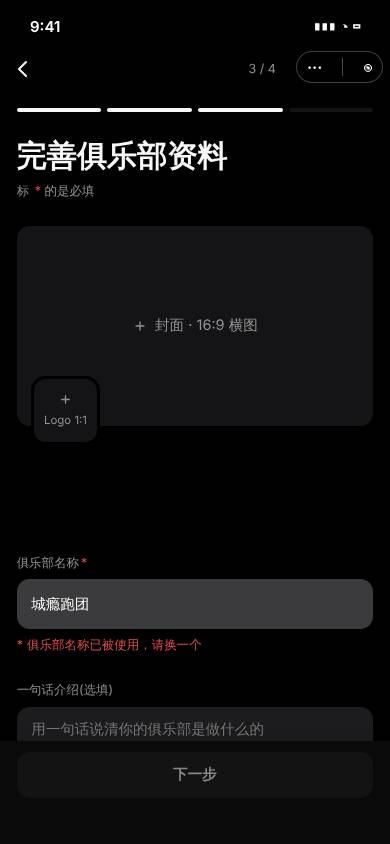
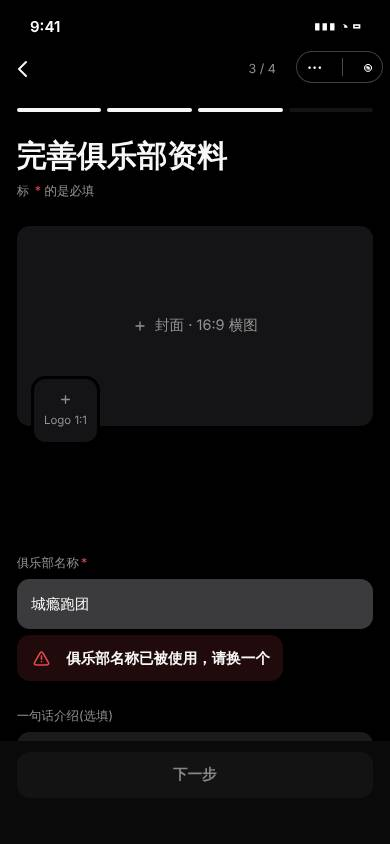
docs: C-14 截图按统一错误组件重拍,结果表同步
Claude-Session: https://claude.ai/code/session_01SUD7bQHTidZoerqLzuiJTf

Changed region(s): [[0.0308, 0.7393, 0.9538, 0.8934]]

diff --git a/docs/delivery/walk-fix-20261102/l3-sell/RESULT.md b/docs/delivery/walk-fix-20261102/l3-sell/RESULT.md
@@ -75,12 +75,12 @@ Nothing from the lost run had been pushed, so every item was redone from the cur
 | ID | Status | What changed | Files | How verified |
 |---|---|---|---|---|
 | P-33 | done (fixed) | Round 2 moved the full-screen sheet below the capsule row, which exposed the root `.slopes` dark background as a black band at the top. In full-screen state the root now carries `slopes--full` and `.fabu.slopes--full { background: var(--cy-color-bg-page); }`, so the status-bar area is the page colour and content still stops below the back button. The map view keeps its dark root. | `pages/publish/fabu/index.wxml`, `.wxss` | `tests/unit/p33-editor-sheet-below-chrome.test.js` (+1, fails on old code). Shots `P-33-*`: 票务设置 scrolled 160 px; before = black band, after = page colour. |
-| C-14 | done (fixed) | New read-only `POST /api/club/name-check` (login required, writes nothing) using the same rule as creation (`ClubServiceImpl.checkNameForCreate` and `requireNameFree` share `isNameHeld`: pending or live, not deleted, trimmed; the caller's own clubs are skipped because creation replays them). The create page checks on leaving the name field (`bindblur`) and again when 下一步 is pressed on step 3; a taken name shows a red * and the reason under the field and keeps 下一步 disabled. Typing clears it; a stale answer is ignored; if the check cannot be reached the page does not block and the final check at creation (and `uk_club_holding_name`) still applies. The existing `aria-label="俱乐部名称，必填"` is unchanged. | `ApiClubController`, `IClubService`, `ClubServiceImpl`, `pages/club/create/index.js/.wxml/.wxss` | `ClubNameUniquenessTest` (+3: taken name gives the create message; pending/rejected/dissolved/own follow the create rule; check and create agree on every case), 12/12 pass. `tests/unit/c14-club-name-check-on-blur.test.js` (5, all fail on old code). Rig: `/api/club/name-check` called on blur (network log). Shots `C-14-*`: club leader 9008 types 「城瘾跑团」 (club 7001's name); fixture: 9008's `ums_member.role` set to `club` in the rig DB only, since the seed leaves both leaders as `player`. |
+| C-14 | done (fixed) | New read-only `POST /api/club/name-check` (login required, writes nothing) using the same rule as creation (`ClubServiceImpl.checkNameForCreate` and `requireNameFree` share `isNameHeld`: pending or live, not deleted, trimmed; the caller's own clubs are skipped because creation replays them). The create page checks on leaving the name field (`bindblur`) and again when 下一步 is pressed on step 3; a taken name shows the reason under the field in the shared `cy-inline-error` (the label keeps its red *) and keeps 下一步 disabled. (`fba075a8`, from another session on this branch, moved the reason from a bare line with its own * into `cy-inline-error` because `scripts/ui-validity-gates.js` U6 refuses bare error text; kept, and the after shot is retaken on it.) Typing clears it; a stale answer is ignored; if the check cannot be reached the page does not block and the final check at creation (and `uk_club_holding_name`) still applies. The existing `aria-label="俱乐部名称，必填"` is unchanged. | `ApiClubController`, `IClubService`, `ClubServiceImpl`, `pages/club/create/index.js/.wxml/.wxss` | `ClubNameUniquenessTest` (+3: taken name gives the create message; pending/rejected/dissolved/own follow the create rule; check and create agree on every case), 12/12 pass. `tests/unit/c14-club-name-check-on-blur.test.js` (5, all fail on old code). Rig: `/api/club/name-check` called on blur (network log). Shots `C-14-*`: club leader 9008 types 「城瘾跑团」 (club 7001's name); fixture: 9008's `ums_member.role` set to `club` in the rig DB only, since the seed leaves both leaders as `player`. |
 | P-34 | done (two real defects fixed) | (1) Confirming the final price of a city theme did not reach the author's tickets: `confirmPrice` only checked them against the floor, so confirming ¥79 left the ¥69 ticket and players paid ¥69. The confirmed price is now written to each authored ticket whose price differs (inventory untouched; a 0-row write rolls the confirmation back). (2) After sale the page said 「合作阵容锁定后可定价」. Preview now returns `priced` (lifecycle > 2) and the page says 「终价已确认」 instead; the disabled-button reason is 「终价已确认」. The backend refusal text 「主题未在定价阶段,不能确认终价」 is unchanged (tests pin it). Price prefill and the confirm flow were otherwise correct. | `PricingServiceImpl.confirmPrice/previewTopic`, `PricingResult`, `pages/topic/pricing/index.js/.wxml` | `PricingDepositDueTest` (+3: confirmed price written to authored tickets and an already-equal one left alone; changed ticket refuses; `priced` true only past pricing), 3 fail on old code, 7/7 pass. `tests/unit/p34-pricing-prefill.test.js` (+1). HTTP in the rig (`proof/p34-confirm-price-after.txt`, `tools/p01_city_sale.py self` with `P01_CONFIRM_PRICE=79`): author's 「领队场」 ¥69 → confirm ¥79 → DB `oms_ticket.price=79.00`, inventory 20 unchanged; after sale approval the session ticket is ¥79 and preview returns `priced:true, currentPrice:79`. Shots `P-34-*` (same sold theme; the before shot also shows ¥79 because the backend is this branch, so only the note differs). |
 | P-38 | done (fixed) | The home privacy gate now also asks for home-city location: `cy-privacy-gate` takes a `location` flag (only the home page sets it); its sentence gains 「同意后将使用你的精确位置确定首页城市，不用于附近排序。」 and 「同意并继续」 reports `location:true`. The home page then records the `home_city_location` consent itself and goes straight to `wx.getLocation`, without the second 「首页城市定位」 dialog. Other pages that use the gate are unchanged (same sentence, same event payload). A previous REVOKE of location consent is still respected. When the gate is not shown (consent already given), the old single dialog still asks. **WeChat's own location permission prompt (`scope.userLocation`) is shown by WeChat and cannot be merged into ours.** | `components/cy/privacy-gate/index.js/.wxml`, `pages/index/index.js/.wxml` | `tests/unit/p38-home-city-after-privacy-gate.test.js` (+4: no dialog, consent recorded, location called; other hosts still ask; revoke respected; markup). `pr69-v3-cl24-home-privacy-gate-text.test.js` updated on purpose: it pinned the gate to one sentence, which the owner's P-38 note changes; it still requires the base sentence and allows only the location sentence, only under `location`. Shots `P-38-*` (gate), `P-38b-*` (right after 同意并继续: before = 「首页城市定位」 dialog, after = no dialog, city 上海市 from the rig's location stand-in). |
 | P-01 | not done (as instructed) | No flow change; round-2 work left in place. | | |
 
-Round 3 checks: mini-program `node --test tests/unit/*.test.js` 15599 tests, 2 failures, both in `action-ledger.test.js` pinning control totals; C-14's `bindblur` adds one event contract, so the totals were raised by one (5599 → 5600, 2725 → 2726) with a note, and that file now passes 46/46. Action ledger rebuilt after each item. `node tests/lint/ui-integrity.js`: `UI-GATE-0:PASS`, no baseline entries added (edits keep baselined line numbers). Java (`chengyinhub-admin`, `*Club*Test,*Pricing*Test,*Topic*Sale*Test,*Consent*Test`): 1419 run, 0 failures; 3 errors are `*MyBatisTest` classes that need their own MySQL, as in earlier rounds.
+Round 3 checks: mini-program `node --test tests/unit/*.test.js` 15599 tests, 2 failures, both in `action-ledger.test.js` pinning control totals; C-14's `bindblur` adds one event contract, so the totals were raised by one (5599 → 5600, 2725 → 2726) with a note, and that file now passes 46/46. Action ledger rebuilt after each item. `node scripts/ui-validity-gates.js`: U3–U6 pass. `node tests/lint/ui-integrity.js`: `UI-GATE-0:PASS`, no baseline entries added (edits keep baselined line numbers). Java (`chengyinhub-admin`, `*Club*Test,*Pricing*Test,*Topic*Sale*Test,*Consent*Test`): 1419 run, 0 failures; 3 errors are `*MyBatisTest` classes that need their own MySQL, as in earlier rounds.
 
 Round 3 observations, not changed:
 - **P-34, a theme with several authored tickets at different prices:** the pricing page sets one guided price, and confirming writes it to every authored ticket. Needs owner: should a city theme with several price tiers keep its tiers at confirm? Recommended default: one confirmed price for all (current behaviour), since the page offers only one.
